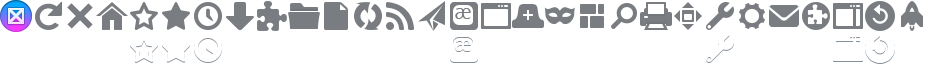
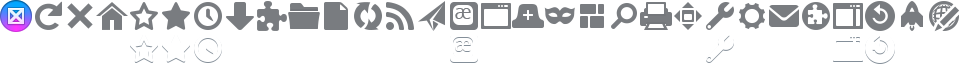
Bug 1056923 - Add WebIDE launch button. r=jryans,r=jaws
UltraBlame original commit: fbe6dcd6b14a6dfe8da70c256666d8e68ed62d7e

diff --git a/browser/themes/osx/browser.css b/browser/themes/osx/browser.css
@@ -765,6 +765,10 @@ toolbar .toolbarbutton-1 > .toolbarbutton-menubutton-dropmarker > .dropmarker-ic
     -moz-image-region: rect(18px, 342px, 36px, 324px);
   }
 
+  #webide-button@toolbarButtonPressed@ {
+    -moz-image-region: rect(18px, 342px, 36px, 324px);
+  }
+
   #new-tab-button@toolbarButtonPressed@ {
     -moz-image-region: rect(18px, 360px, 36px, 342px);
   }
@@ -1010,6 +1014,14 @@ toolbar .toolbarbutton-1 > .toolbarbutton-menubutton-dropmarker > .dropmarker-ic
 
   #e10s-button > .toolbarbutton-icon {
     transform: scaleY(-1);
+  }
+
+  #webide-button[cui-areatype="toolbar"] {
+    -moz-image-region: rect(0, 1476px, 36px, 1440px);
+  }
+
+  #webide-button[cui-areatype="toolbar"]:hover:active:not([disabled="true"]) {
+    -moz-image-region: rect(36px, 1476px, 72px, 1440px);
   }
 
   #new-tab-button[cui-areatype="toolbar"] {
@@ -1279,6 +1291,11 @@ toolbar .toolbarbutton-1 > .toolbarbutton-menubutton-dropmarker > .dropmarker-ic
   #e10s-button[cui-areatype="menu-panel"],
   toolbarpaletteitem[place="palette"] > #e10s-button {
     -moz-image-region: rect(0px, 1024px, 64px, 960px);
+  }
+
+  #webide-button[cui-areatype="menu-panel"],
+  toolbarpaletteitem[place="palette"] > #webide-button {
+    -moz-image-region: rect(0px, 1920px, 64px, 1856px);
   }
 
   #new-tab-button[cui-areatype="menu-panel"],

diff --git a/browser/devtools/webide/test/browser_widget.js b/browser/devtools/webide/test/browser_widget.js
@@ -1,0 +1,15 @@
+
+
+"use strict";
+
+function test() {
+  waitForExplicitFinish();
+  Task.spawn(function() {
+    let win = yield openWebIDE();
+    ok(document.querySelector("#webide-button"), "Found WebIDE button");
+    Services.prefs.setBoolPref("devtools.webide.widget.enabled", false);
+    ok(!document.querySelector("#webide-button"), "WebIDE button uninstalled");
+    yield closeWebIDE(win);
+    Services.prefs.clearUserPref("devtools.webide.widget.enabled");
+  }).then(finish, handleError);
+}

diff --git a/browser/devtools/webide/content/webide.js b/browser/devtools/webide/content/webide.js
@@ -89,6 +89,12 @@ let UI = {
 
     this.lastConnectedRuntime = Services.prefs.getCharPref("devtools.webide.lastConnectedRuntime");
 
+    if (Services.prefs.getBoolPref("devtools.webide.widget.autoinstall") &&
+        !Services.prefs.getBoolPref("devtools.webide.widget.enabled")) {
+      Services.prefs.setBoolPref("devtools.webide.widget.enabled", true);
+      gDevToolsBrowser.moveWebIDEWidgetInNavbar();
+    }
+
     this.setupDeck();
   },
 

diff --git a/browser/devtools/webide/webide-prefs.js b/browser/devtools/webide/webide-prefs.js
@@ -18,3 +18,6 @@ pref("devtools.webide.adaptersAddonID", "fxdevtools-adapters@mozilla.org");
 pref("devtools.webide.monitorWebSocketURL", "ws://localhost:9000");
 pref("devtools.webide.lastConnectedRuntime", "");
 pref("devtools.webide.lastSelectedProject", "");
+pref("devtools.webide.widget.autoinstall", true);
+pref("devtools.webide.widget.enabled", false);
+pref("devtools.webide.widget.inNavbarByDefault", false);

diff --git a/browser/themes/shared/menupanel.inc.css b/browser/themes/shared/menupanel.inc.css
@@ -166,6 +166,11 @@ toolbarpaletteitem[place="palette"] > #web-apps-button {
   -moz-image-region: rect(0, 928px, 32px, 896px);
 }
 
+#webide-button[cui-areatype="menu-panel"],
+toolbarpaletteitem[place="palette"] > #webide-button {
+  -moz-image-region: rect(0px, 960px, 32px, 928px);
+}
+
 toolbaritem[sdkstylewidget="true"] > toolbarbutton {
   -moz-image-region: rect(0, 832px, 32px, 800px);
 }

diff --git a/browser/themes/shared/toolbarbuttons.inc.css b/browser/themes/shared/toolbarbuttons.inc.css
@@ -233,3 +233,7 @@ toolbar[brighttext] #loop-call-button > .toolbarbutton-badge-container {
 #loop-call-button:not([disabled="true"])[state="active"]:-moz-any(:hover,:hover:active,[open]) > .toolbarbutton-badge-container {
   -moz-image-region: rect(0, 126px, 18px, 108px);
 }
+
+#webide-button[cui-areatype="toolbar"] {
+  -moz-image-region: rect(0, 738px, 18px, 720px);
+}

diff --git a/browser/devtools/webide/test/head.js b/browser/devtools/webide/test/head.js
@@ -64,6 +64,8 @@ function closeWebIDE(win) {
 
   let deferred = promise.defer();
 
+  Services.prefs.clearUserPref("devtools.webide.widget.enabled");
+
   win.addEventListener("unload", function onUnload() {
     win.removeEventListener("unload", onUnload);
     info("WebIDE closed");
